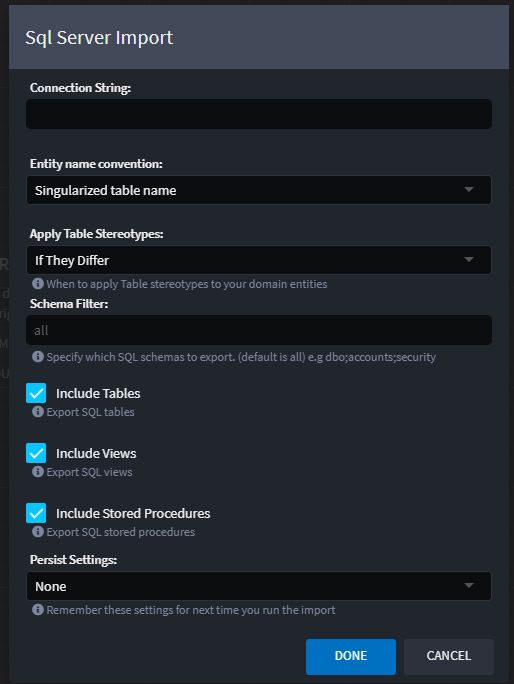
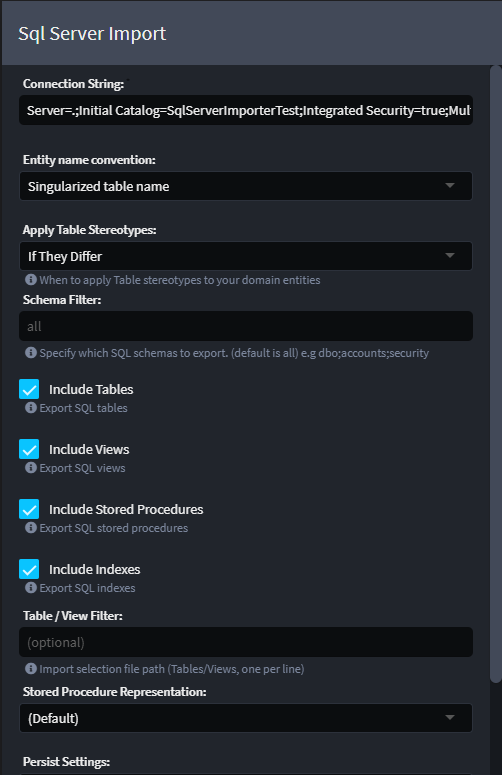
Updated release notes and documentation

diff --git a/Modules/Intent.Modules.SqlServerImporter/README.md b/Modules/Intent.Modules.SqlServerImporter/README.md
@@ -4,7 +4,7 @@ This module added to the Domain Designer allowing you to import / reverse engine
 
 ## Domain Designer
 
-In the `Domain Designer`, right click on your domain package and select the `Database Import` context menu option.
+In the `Domain Designer`, right-click on your domain package and select the `Database Import` context menu option.
 
 ![Database Import context menu item](./docs/images/db-import.png)
 
@@ -40,6 +40,20 @@ A `;` separated list of SQL Schemas to export from, allowing you to subset your 
 #### Include Type (s)
 
 Select which SQL Types you would like to export e.g. Tables, Views and / or Stored Procedures.
+
+#### Table/View Filter
+
+Specify a file path that contains the names of Tables and Views that you would like to import and it will stick to those objects only. Each item is line separated.
+
+#### Stored Procedure Representations
+
+Choose between using Repository Elements and Repository Operations to represent your Stored Procedures.
+
+- Stored Procedure Element
+   ![Stored Procedure Element](./docs/images/stored-procedure-element.png)
+
+- Stored Procedure Operation
+  ![Stored Procedure Operation](./docs/images/stored-procedure-operation.png)
 
 #### Persist Settings
 

diff --git a/Modules/Intent.Modules.SqlServerImporter/release-notes.md b/Modules/Intent.Modules.SqlServerImporter/release-notes.md
@@ -1,3 +1,7 @@
+### Version 1.0.6
+
+- Improvement: Import Stored Procedures from your SQL Server by name directly on a given Repository in your Domain Designer.
+
 ### Version 1.0.5
 
 - Improvement: Updated module NuGet packages infrastructure.
